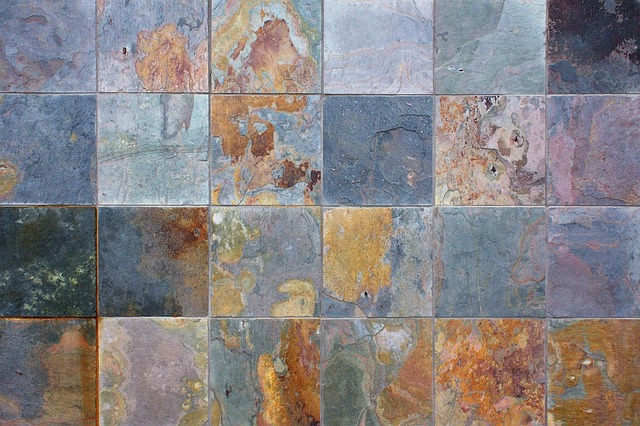
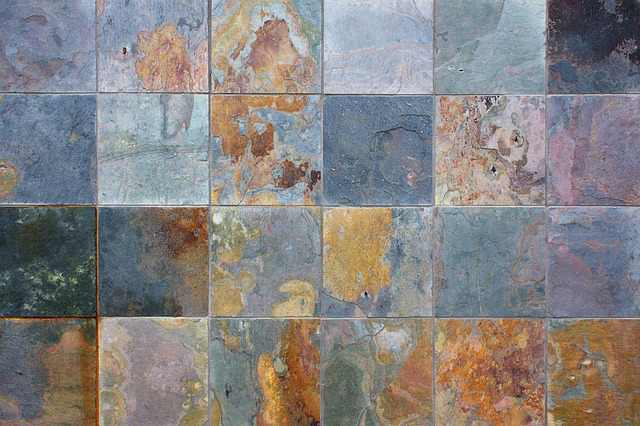
service-img-redefine

diff --git a/service.html b/service.html
@@ -115,13 +115,13 @@
                 <div class="service-container">
                     <div class="service-sub-container">
                         <div class="service-pic">
-                             <img src="image/Plumbing.png" alt="" width="400">
+                             <img src="image/Plumbing.jpg" alt="" width="400">
                         </div>
                         <div class="service-pic1">
-                            <img src="image/Plumbing.png" alt="" width="400">
+                            <img src="image/Plumbing.jpg" alt="" width="400">
                        </div>
                        <div class="service-pic2">
-                        <img src="image/Plumbing.png" alt="" width="350">
+                        <img src="image/Plumbing.jpg" alt="" width="350">
                    </div>
                         <div class="description" id="plumbing">
                             <h1>Plumbing</h1>
@@ -162,13 +162,13 @@
 
                     <div class="service-sub-container">
                         <div class="service-pic">
-                             <img src="image/Tiling.jpg" alt="" width="400">
+                             <img src="image/tiling.jpg" alt="" width="400">
                         </div>
                         <div class="service-pic1">
-                            <img src="image/Tiling.jpg" alt="" width="400">
+                            <img src="image/tiling.jpg" alt="" width="400">
                        </div>
                        <div class="service-pic2">
-                        <img src="image/Tiling.jpg" alt="" width="350">
+                        <img src="image/tiling.jpg" alt="" width="350">
                    </div>
                         <div class="description" id="tiling">
                             <h1>Tiling</h1>
